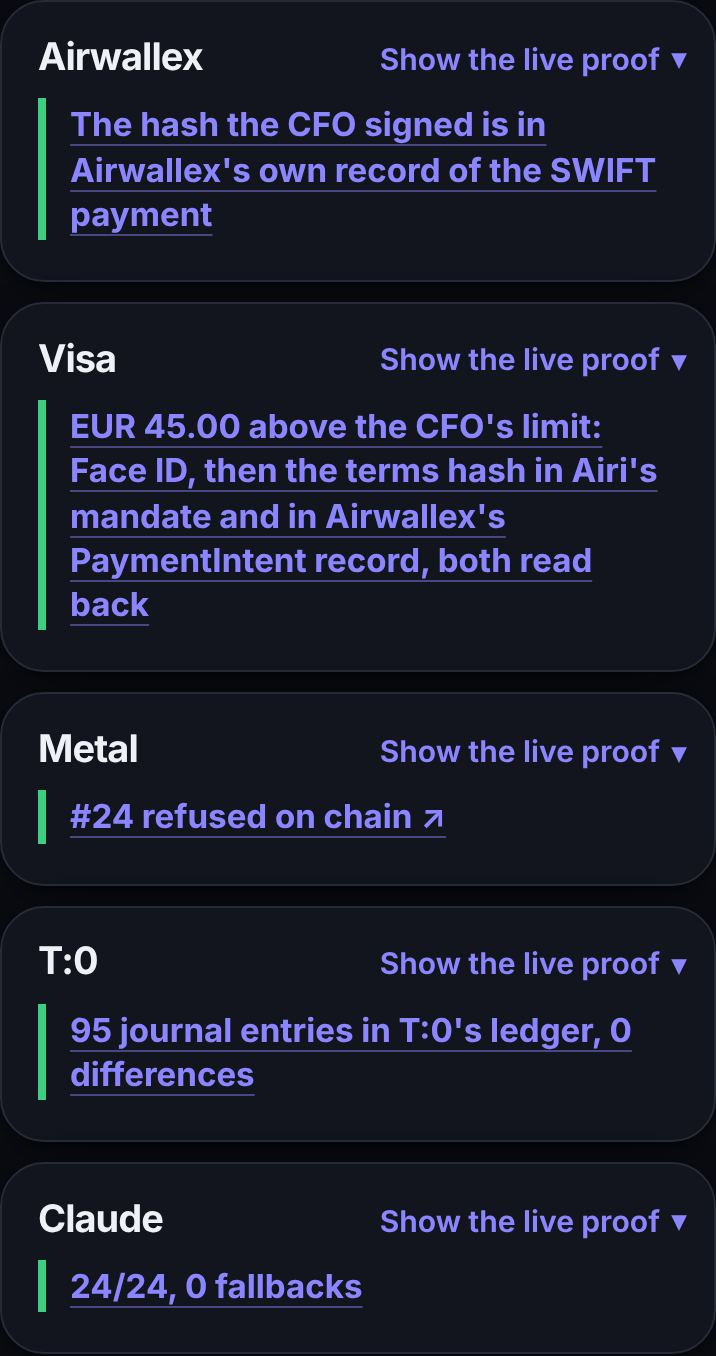
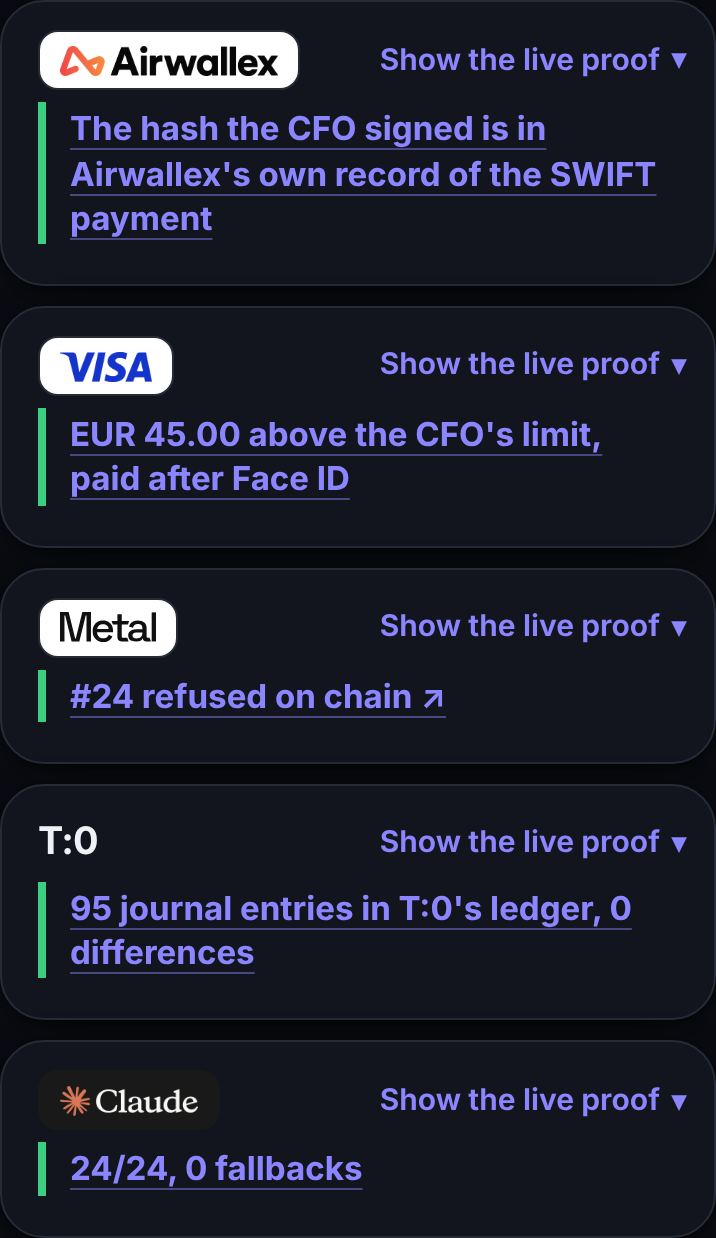
/proof: each partner card with its mark (the name stays the heading, for a screen reader); T:0 by name
Claude-Session: https://claude.ai/code/session_017bq3BzdKTjNtMY5VTLUv8m

diff --git a/src/redesign/proof.ts b/src/redesign/proof.ts
@@ -66,7 +66,9 @@ h2.sec { font-size: clamp(22px, 2.2vw, 28px); font-weight: 750; margin: 24px 0 1
 @media (min-width: 900px) { .partners { grid-template-columns: repeat(3, minmax(0, 1fr)); } }
 /* A partner card, closed: its name, its strongest claim as its one link, and the fold's header in the name's row. */
 .pcard { position: relative; padding: 14px 18px; display: flex; flex-direction: column; gap: 6px; }
-.pcard .ph { display: flex; align-items: center; min-height: 28px; }
+.pcard .ph { display: flex; align-items: center; gap: 10px; min-height: 28px; }
+.pcard .ph .logo { height: 30px; padding: 0 10px; }
+.pcard .ph .logo + h3 { position: absolute; width: 1px; height: 1px; overflow: hidden; clip: rect(0 0 0 0); white-space: nowrap; }
 .pcard .ph h3 { font-size: 19px; }
 /* The card's main claim reads as a link, the same on all three cards (review 12 Nov): the accent colour, an accent underline. */
 .pcard > ul.lead a.c { font-size: 16.5px; color: var(--accent); text-decoration-color: color-mix(in srgb, var(--accent) 45%, transparent); }
@@ -191,6 +193,10 @@ const fact = (v: string, l: string) => `<span class="fact"><b>${esc(v)}</b> ${es
  * dark one), the name in alt. A mark names a service Purser uses, never an endorsement.
  */
 const mark = (file: string, name: string, w: number, dark = false) => `<span class="logo${dark ? " dark" : ""}"><img src="assets/${file}" alt="${name}" width="${w}" height="15"></span>`;
+/** /proof's partner cards (owner, 12 Nov: "each partner card with its logo"): the same marks, beside the name (alt empty: the name is the heading). T:0 has no logo file: its name alone. */
+const CARD_MARK: Record<string, string> = {
+  airwallex: mark("logo-airwallex.png", "", 109), visa: mark("logo-visa.png", "", 46), metal: mark("logo-metal.svg", "", 48), claude: mark("logo-claude.png", "", 69, true),
+};
 export const LOGO = {
   metal: mark("logo-metal.svg", "Metal", 48),
   airwallex: mark("logo-airwallex.png", "Airwallex", 109),
@@ -290,7 +296,7 @@ export function partnerCards(run: AgentRun, lead: Record<"airwallex" | "metal" |
   const recOf: Record<string, string> = { visa: VIC3_RECORD, t0: T0_JOURNAL_RECORD };
   const card = (id: "metal" | "airwallex" | "claude" | "visa" | "t0", name: string, what: string, facts: string, items: string[], extra = "") => {
     const [first, ...rest] = leads[id] ?? [];
-    return `<article class="pcard card" id="${id}"${recOf[id] ? ` data-rec="${recOf[id]}"` : ""}><div class="ph"><h3>${esc(name)}</h3></div>${first ? leadHtml([{ text: first.text, href: first.href }]) : ""}<details class="fold"><summary>Show the live proof</summary><div class="facts">${facts}</div>${first?.note && !first.links?.length ? `<p class="note">${esc(first.note)}</p>` : ""}${leadHtml(first?.links?.length ? leads[id]! : rest)}<p class="what">${esc(what)}</p>${extra}${items.length ? `<ul class="pl">${items.join("")}</ul>` : ""}<a class="open" href="${id}">More<span class="vh"> about ${esc(name)}</span> ${icon("arrow-right", 14)}</a></details></article>`;
+    return `<article class="pcard card" id="${id}"${recOf[id] ? ` data-rec="${recOf[id]}"` : ""}><div class="ph">${CARD_MARK[id] ?? ""}<h3>${esc(name)}</h3></div>${first ? leadHtml([{ text: first.text, href: first.href }]) : ""}<details class="fold"><summary>Show the live proof</summary><div class="facts">${facts}</div>${first?.note && !first.links?.length ? `<p class="note">${esc(first.note)}</p>` : ""}${leadHtml(first?.links?.length ? leads[id]! : rest)}<p class="what">${esc(what)}</p>${extra}${items.length ? `<ul class="pl">${items.join("")}</ul>` : ""}<a class="open" href="${id}">More<span class="vh"> about ${esc(name)}</span> ${icon("arrow-right", 14)}</a></details></article>`;
   };
   const cardsMatch = /^(\d+ of \d+) cards carry the CFO's policy$/.exec(lead.airwallex.find((l) => / cards carry the CFO's policy$/.test(l.text))?.text ?? "");
   // Owner, 12 Nov: Airwallex, Visa, Metal, T:0, Claude (before: in the README's order, jury review, 7 Nov, #12: Airwallex, Metal, Claude). (The signed hash was the Airwallex card's

diff --git a/test/proof-first.test.ts b/test/proof-first.test.ts
@@ -156,10 +156,11 @@ describe("/proof as served: each card shows its strongest claim as its one link 
       const card = cardOf(html, id), first = afterHeader(card), lead0 = leads[id][0]!, out = lead0.href.startsWith("https://");
       // The name as text, never a logo; then the first lead of proofLeads(record) as the card's main link, and nothing
       // else in sight: no other link above the fold.
-      expect(card.startsWith(`<article class="pcard card" id="${id}"><div class="ph"><h3>${name}</h3></div>`)).toBe(true);
+      // 12 Nov (owner): each card's partner mark beside its name (alt empty: the name is the heading).
+      expect(card).toMatch(new RegExp(`^<article class="pcard card" id="${id}"><div class="ph">(<span class="logo( dark)?"><img src="assets/logo-${id}\\.(png|svg)" alt="" width="\\d+" height="15"></span>)?<h3>${name}</h3></div>`));
       const sight = first.slice(0, first.indexOf('<details class="fold">'));
       expect(decode(sight)).toBe(`<ul class="lead"><li><a class="c" href="${lead0.href}"${out ? ' target="_blank" rel="noopener"' : ""}>${lead0.text}${out ? " ↗" : ""}</a></li></ul>`);
-      expect(card).not.toMatch(/<img /);
+      expect(card.replace(/<span class="logo( dark)?"><img [^>]*><\/span>/, "")).not.toMatch(/<img /);
       // The fold, closed: the facts first, each a bold number and plain words.
       const fold = card.slice(card.indexOf('<details class="fold">'));
       expect(fold.startsWith('<details class="fold"><summary>Show the live proof</summary><div class="facts">')).toBe(true);

diff --git a/test/redesign-numbers.test.ts b/test/redesign-numbers.test.ts
@@ -221,7 +221,8 @@ describe("honest wording on the four tabs (review, 2 Nov)", () => {
 });
 
 /** 12 Nov (wire-in): Visa's official mark on /visa's header, on the owner's stated permission (docs/evidence/logo-permissions.md). */
-const VISA_MARK = /<img src="assets\/logo-visa\.png" alt="Visa" width="46" height="15">/g;
+// and on /proof's Visa card (alt empty there: the card's heading names it).
+const VISA_MARK = /<img src="assets\/logo-visa\.png" alt="(Visa)?" width="46" height="15">/g;
 
 describe("the redesigned public pages", () => {
   const PAGES = buildPages();
